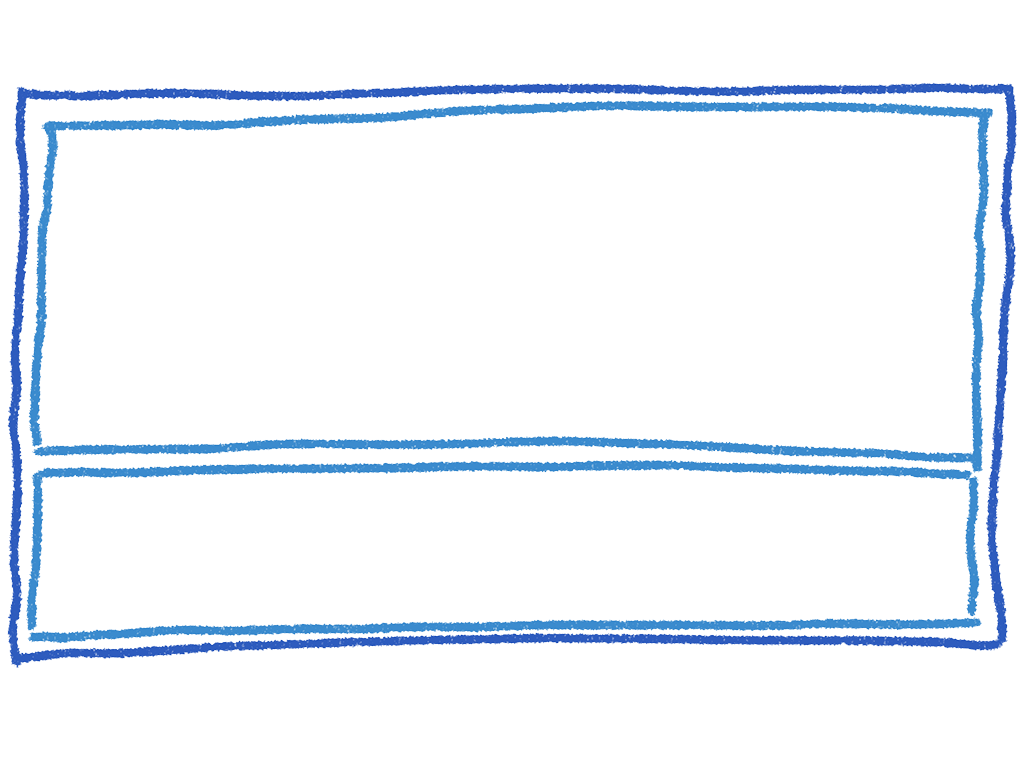
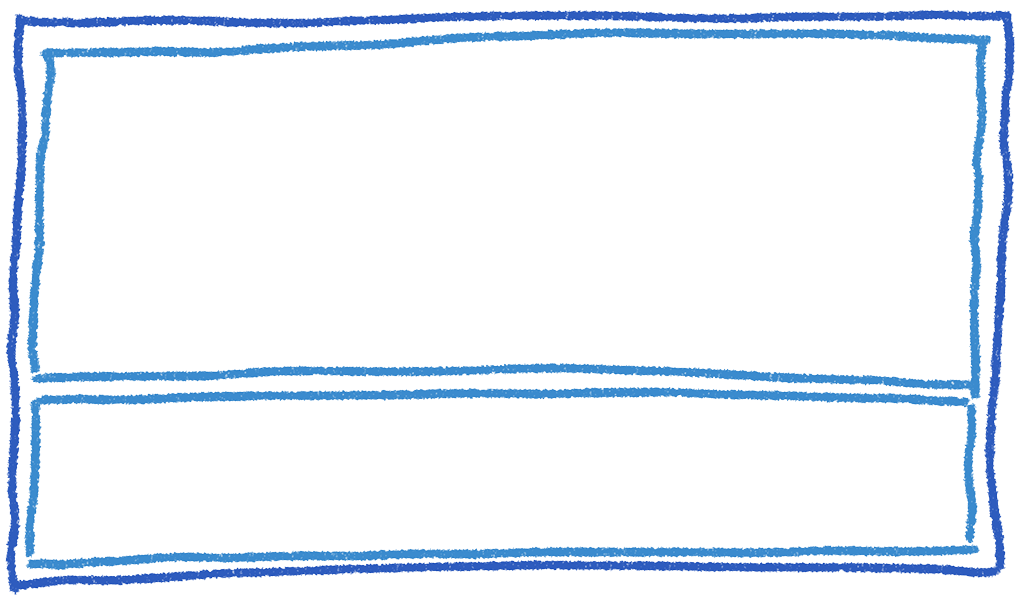
update UI

Changed region(s): [[0.0, 0.0, 1.0, 0.9933]]

diff --git a/UI/lobby.css b/UI/lobby.css
@@ -1,5 +1,23 @@
+.box {
+	display: flex;
+	
+}
+
 #left {
-	width: 300px;;
+	display: flex;
+	flex-direction: column;
+	left: 0;
+	position: relative;
+	width: 300px;
+	height: 100%;
+	background-image: url(image/playerlist.png);
+}
+
+#right {
+	padding-left: 20px;
+	right: 0;
+	height: 100%;
+	width: 800px;
 }
 
 #user-info {
@@ -17,3 +35,76 @@
 	padding-top: 20px;
 	display: inline-block;
 	font-size: 50px;
+}
+
+#players {
+	height: 100%;
+}
+
+#rooms {
+	height: 360px;
+	padding: 0;
+	margin: 0 0;
+	background-image: url(image/rooms.png);
+	background-position: center center;
+	background-repeat: no-repeat;
+	background-size: 100% 360px;
+}
+
+#rooms li {
+	padding: 0;
+}
+
+#chat-area {
+	height: 250px;
+	padding-top: 5px;
+	background-image: url(image/chatbox.png);
+	background-size: 100% 100%;
+}
+
+#chat-msgs {
+	height: 200px;
+	margin: 0 10px;
+	background-image: url(image/msgbox.png);
+	background-size: 100% 100%;
+	background-repeat: no-repeat;
+	background-position: center center;
+	padding: 0px 0px;
+}
+
+#char-msgs li {
+	display: block;
+}
+
+#chat-input {
+	display: flex;
+	flex-direction: row;
+}
+
+#chat-box {
+	height: 50px;
+	width: calc(100% - 50px);
+	background-image: url(image/msginputbox.png);
+	background-size: calc(100% - 20px) calc(100% - 15px);
+	background-repeat: no-repeat;
+	background-position: center center;
+}
+
+#chat-box input {
+	border: hidden;
+	background: transparent;
+	width: calc(100% - 20px);
+	height: calc(100% - 15px);
+}
+
+#chat-submit {
+	border: hidden;
+	padding: 0;
+	width: 50px;
+	background: transparent;
+}
+
+#chat-submit img {
+	width: 45px;
+	float: left;
+}

diff --git a/UI/lobby.html b/UI/lobby.html
@@ -9,6 +9,7 @@
 
 <body>
 
+<div class="box">
 <div id="left">
 	<ul id="user-info">
 		<li>C.C</li><br>
@@ -19,12 +20,19 @@
 </div>
 
 <div id="right">
-<ul id="rooms"></ul>
+	<ul id="rooms"></ul>
 
-<div id="chat-area">
-	<ul id="chat-msgs"></ul>
-	<input type="text" id="chat-box"></input>
-	<button type="button" id="chat-submit">submit</button>
+	<div id="chat-area">
+		<ul id="chat-msgs"></ul>
+		<div id="chat-input">
+		<div id="chat-box">
+			<input type="text"></input>
+		</div>
+		<button type="button" id="chat-submit">
+			<img src="image/submit.png">
+		</button>
+		</div>
+	</div>
 </div>
 </div>
 

diff --git a/UI/login.css b/UI/login.css
@@ -7,22 +7,27 @@
 .box {
 	height: 300px;
 	background-image: url(image/box.png);
-	background-size: 500px 300px;
+	background-size: 500px 310px;
 	background-repeat: no-repeat;
 	background-position: center center;
 }
 
 .user {
-	padding-top:50px;
+	padding-top: 23px;
 	width: 400px;
 	height: 300px;
 	display: block;
 	margin: 0 auto;
 }
 
+.user > label {
+	font-family: "Comic Sans MS", cursive, sans-serif;
+	font-size: 25px;
+}
+
 input {
 	width: 400px;
-	height: 50px;
+	height: 45px;
 	border: none;
 }
 
